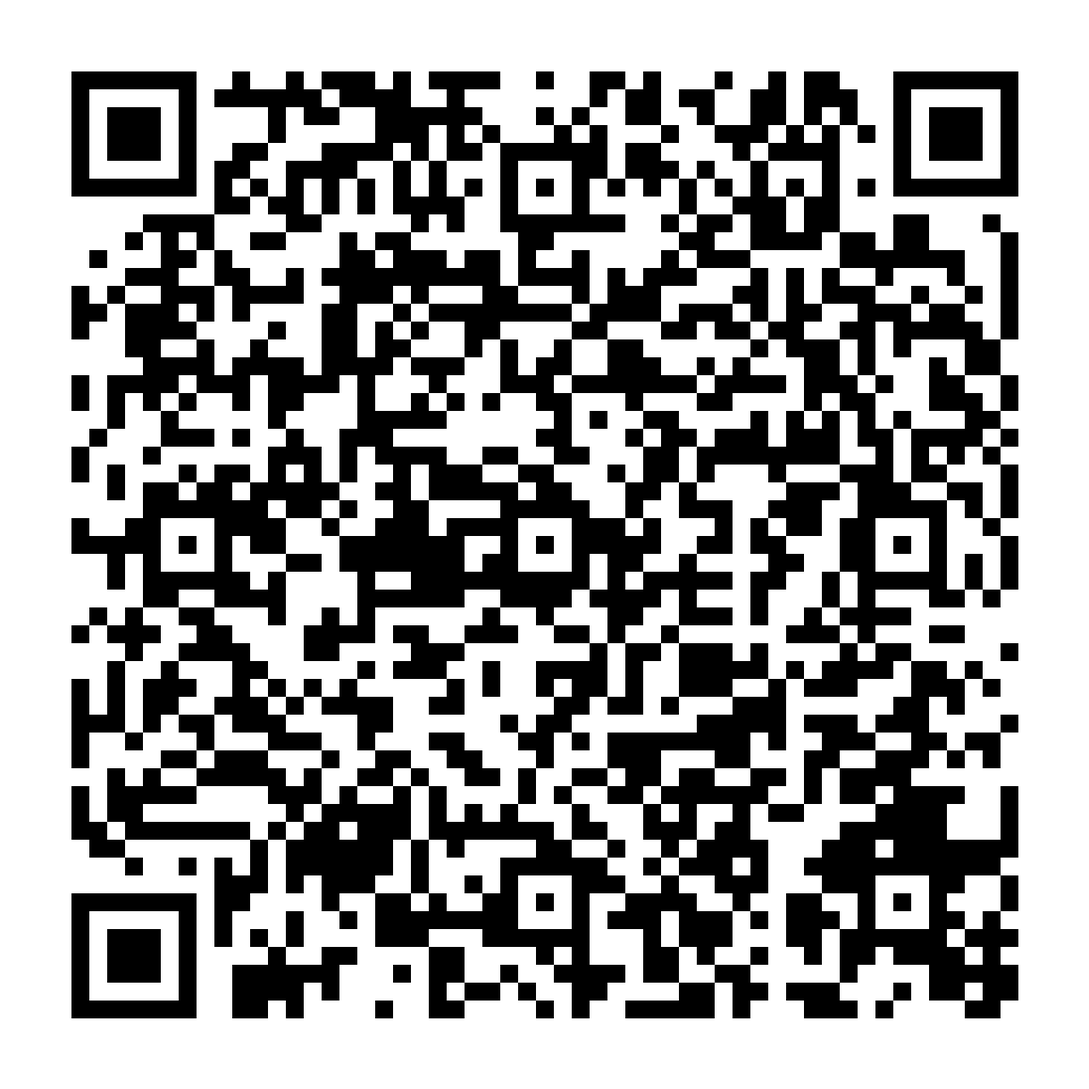
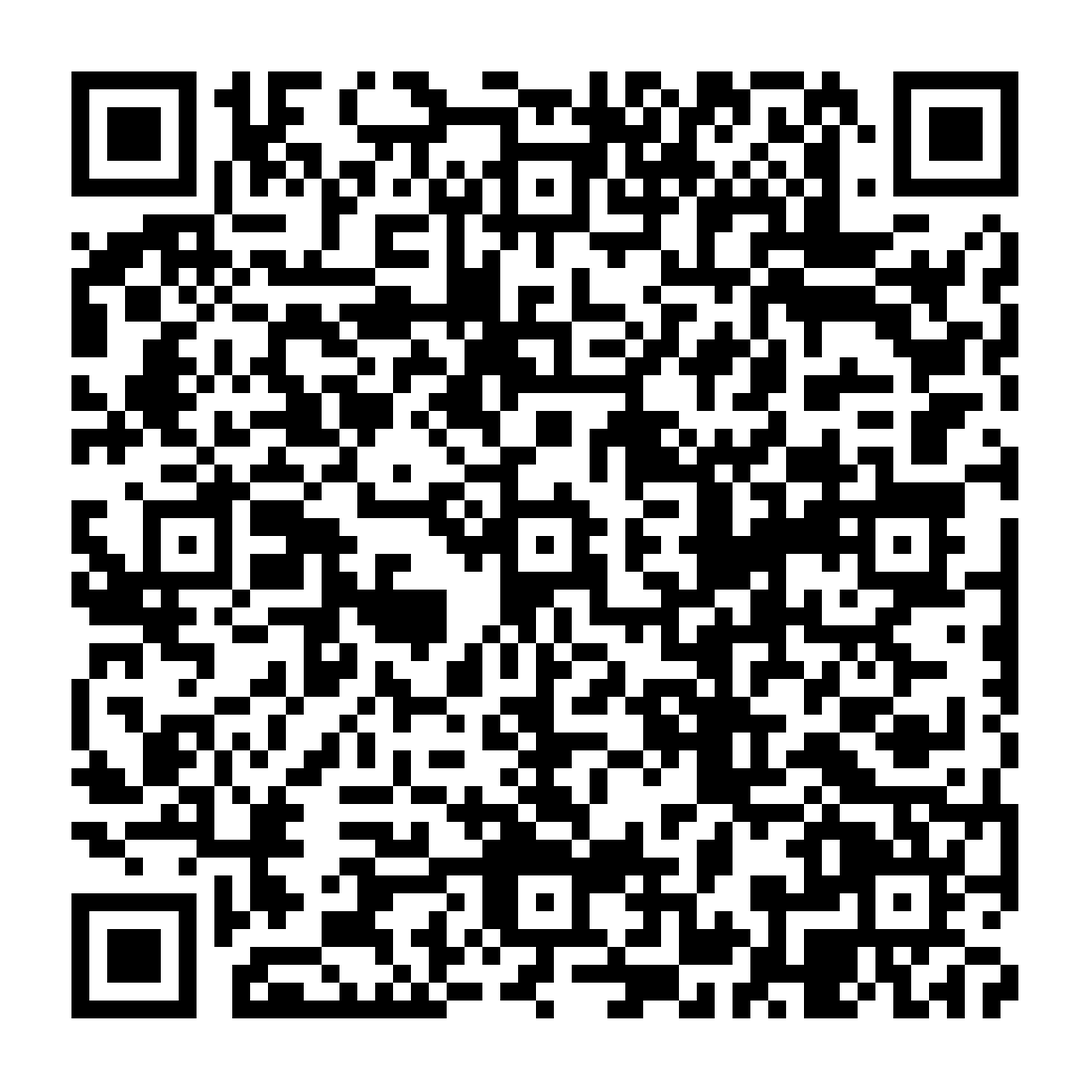
Document the free Cloudflare and GitHub Pages stack and refresh the demo QR code
Add docs/FREE_HOSTING.md with the architecture, URLs, data freshness, free
limits and degradation, the ops runbook, known gaps and the approvals needed
to shut down the paid stack. Point the README and the demo script at the
GitHub Pages URL and regenerate the KubeCon QR code for it with a one-off
tool that is not a repository dependency.

Claude-Session: https://claude.ai/code/session_01DCbh2HR69pk2FsoHooRBHN

diff --git a/docs/FREE_HOSTING.md b/docs/FREE_HOSTING.md
@@ -1,0 +1,190 @@
+# Free hosting: Conference Caddie on GitHub Pages and Cloudflare
+
+This page describes the free version of Conference Caddie, which has no expiry and needs no Elasticsearch and no Google Cloud. The people features are the main feature: profiles, people matching, talk circles, asks, waves, meets, presence, block, report, moderation, nudges and push. Talk search, browse, schedule, For you, topics and schedule import come along.
+
+## Status on 2026-11-10 (read this first)
+
+The code is finished and tested locally, but **the Worker is not deployed yet**, so the free stack is not live.
+
+- The Cloudflare API token in `CLOUDFLARE_API_TOKEN` is active and Workers AI works with it. Every call on a named Worker script (upload, secrets) answers HTTP 403 "No access to the specified resource", and so do `/workers/subdomain` and `/workers/durable_objects/namespaces`. The token therefore lacks the permission **Workers Scripts: Edit**, even though the brief said it had it. There is no wrangler login on the build machine to fall back on.
+- GitHub Pages is enabled (source: GitHub Actions) but nothing has been published, so https://kurtlehnardt.github.io/conferenceCaddie/ shows GitHub's 404 page for now. The Pages and ingest workflows are on `main` and skip with a notice while the repository variable `CADDIE_API_BASE` (and, for the ingest, the secret `CADDIE_ADMIN_TOKEN`) is unset, so they do not fail.
+- The last full local run of the ported smoke script (`scripts/smoke.mjs`) against a local Worker with real Workers AI embeddings gave 86 PASS, 0 FAIL.
+- The Cloud Run and Elasticsearch stack is untouched and still serves https://conference-caddie-265846417372.us-west1.run.app.
+
+To finish, follow [Go live](#go-live-about-10-minutes) below.
+
+## Live URLs
+
+| What | URL | State |
+|---|---|---|
+| Web app (GitHub Pages) | https://kurtlehnardt.github.io/conferenceCaddie/ | Enabled, not published yet |
+| KubeCon NA 2026 deep link (the QR code) | https://kurtlehnardt.github.io/conferenceCaddie/e/kubecon-cloudnativecon-north-america-2026 | Works once the app is published |
+| Worker API | `https://conference-caddie-api.<subdomain>.workers.dev` | Not deployed. `worker/scripts/deploy.sh` prints the real URL, and it is stored in the repository variable `CADDIE_API_BASE`. |
+| Old app (Cloud Run) | https://conference-caddie-265846417372.us-west1.run.app | Live, unchanged, the rollback |
+
+## Architecture
+
+```
+Phone browser ──HTTPS──> GitHub Pages (static Vite/Preact app, base path /conferenceCaddie/)
+      │
+      └──HTTPS + CORS, X-Caddie-Device header, no cookies──> Cloudflare Worker "conference-caddie-api"
+                                                              │
+                                   ┌──────────────────────────┼───────────────────────────┐
+                                   ▼                          ▼                           ▼
+                        ConferenceDO (one per slug)     DirectoryDO ("global")      Workers AI
+                        SQLite: talks, FTS5, vectors,   conference list, usage      bge-small-en-v1.5
+                        people, presence, asks, meets,  totals                      embeddings
+                        blocks, reports, push, rules
+                                   ▲
+                        Cron Trigger every 10 minutes (purge, expiry, pending embeddings, usage)
+GitHub Actions: weekly ingest ──admin routes──> Worker
+```
+
+- **One Worker.** `worker/src/index.js` routes the 31 API routes. All heavy work runs in Durable Objects, because the Free plan allows 10 ms of CPU per Worker request.
+- **Storage: SQLite-backed Durable Objects only.** There is one `ConferenceDO` per conference slug and one `DirectoryDO` named `global`. D1, KV, Vectorize and Pages (Cloudflare's) are not used.
+- **Keyword search:** SQLite FTS5 with the porter and unicode61 tokenizer.
+- **Semantic search:** vectors from `@cf/baai/bge-small-en-v1.5` (384 dimensions), L2-normalised, stored as float32 BLOBs, with a brute-force dot product over vectors held in Durable Object memory. The model is set by the `EMBED_MODEL` variable. No generative LLM is called anywhere.
+- **Ranking:** reciprocal rank fusion in code (rank constant 60). The old "Elasticsearch does all ranking" rule is lifted. People matching also applies a cosine floor of 0.55 to each semantic leg for bge-small, set by `PEOPLE_SEMANTIC_FLOOR`; lower it if recall feels low.
+- **Auth:** the device header `X-Caddie-Device: {profile_id}.{secret}`. Only `sha256(secret)` is stored, and the compare is constant time. There are no cookies.
+- **CORS:** the Worker allows only the origins in `ALLOWED_ORIGINS` (`https://kurtlehnardt.github.io` and the localhost dev ports) plus requests with no `Origin` header (Node, curl, the Android app).
+- **Push:** VAPID Web Push is sent from the Worker with Web Crypto (RFC 8291 and 8292). The VAPID pair is stored as Worker secrets.
+- **Privacy rules are unchanged:** reciprocity, circles gated by sharing, presence and zone visibility, symmetric block, silent decline, expiry, delete everywhere, device-secret ownership, and contact shown only to entitled viewers. The UI shows no raw IDs.
+- **Schedule import:** the Pages build (`VITE_CLIENT_EXTRACT=1`) reads PDF, DOCX and ODT files in the browser, with pdf.js and fflate loaded on demand, and sends only text to the Worker. The Cloud Run build still sends files to Elasticsearch. This reverses the 2026-11-09 choice for the free stack only.
+- **Web build:** `VITE_BASE` sets the path base and `VITE_API_BASE` sets the API address. The Cloud Run build uses neither (base `/`, same origin). The Pages build uses `/conferenceCaddie/`, copies `index.html` to `404.html` so deep links work, and adds a Content-Security-Policy tag naming the Worker.
+- **Source layout:** the backend is `worker/` (`src/`, `ingest/`, `scripts/`, `wrangler.toml`). The Cloud Run server in `server/` is unchanged, and `worker/` is excluded from its image.
+
+## How data stays fresh
+
+- **Talks and conferences:** the workflow `.github/workflows/ingest.yml` runs every Monday at 09:17 UTC and on demand. It discovers upcoming Linux Foundation events and their Sessionize schedules with `scripts/ingest.mjs --dry-run`, then pushes them to the Worker with `worker/ingest/push-ingest.mjs`. The Worker embeds only talks whose text changed, so a rerun costs almost no writes and no neurons. Nothing is committed.
+- **Cron Trigger** (`*/10 * * * *`): purges expired profiles, expires presence and meets, retries pending embeddings, and adds up the day's usage across conferences. This does not depend on GitHub.
+- GitHub disables scheduled workflows after 60 days without repository activity. Run `gh workflow run ingest.yml` to enable it again. The people purge keeps running on Cloudflare in the meantime.
+
+## Free limits and how the app degrades
+
+| Limit (Free plan) | What the app does about it |
+|---|---|
+| 100,000 Worker requests and 100,000 Durable Object requests a day | Each conference object meters its own requests, rows read and rows written per UTC day, and the cron adds them up. Every response carries `X-Caddie-Pace`, and the web app stretches all its polling by that factor before the cap. Polling also slows when the tab is hidden. If the cap is hit anyway, the Worker answers `503 {error:"daily_limit"}` with CORS headers and `Retry-After` until 00:00 UTC; the app says when the people features come back, and the static app and the offline schedule keep working. |
+| 10 ms CPU per Worker request | The Worker only routes. Heavy work runs in the Durable Object, where the limit is far higher. |
+| 5,000,000 SQLite rows read a day | Keyword results are cached in memory, queries read row ids first, and near the soft cap (`ROWS_READ_SOFT_CAP`, 3,500,000) search falls back to an in-memory keyword match. |
+| 100,000 SQLite rows written a day | Profile search rows are rewritten only when text changes, unchanged talks are not rewritten on ingest, and nudges stop near the soft cap (`ROWS_WRITTEN_SOFT_CAP`, 85,000). |
+| 10,000 Workers AI neurons a day | When the quota runs out every route answers with keyword matching only and sets `degraded`. Stored profile and talk vectors are kept, embeddings are made only for changed text, and the cron retries pending ones. |
+| Shared venue Wi-Fi IPs | The timer-driven "around now" check uses the larger poll limit, so about 100 people behind one address do not lock each other out. |
+
+`DAILY_REQUEST_BUDGET` (70,000) is the request count after which the pace factor starts to rise. The sizing assumed about 2,000 attendees on one conference day. A conference much larger than that needs the paid Workers plan.
+
+## Go live (about 10 minutes)
+
+1. **Fix the token.** In the Cloudflare dashboard, create an account API token with Workers Scripts: Edit and Workers AI: Read (add Workers Tail: Read only if you want CPU readings). If the account has no `workers.dev` subdomain, create it under Workers & Pages, Overview. Put the new token in `CLOUDFLARE_API_TOKEN`.
+2. From the repository root, in order (each step prints names and counts only):
+
+   ```sh
+   bash worker/scripts/deploy.sh                          # prints the subdomain and the Worker URL
+   node worker/scripts/setup-secrets.mjs --only-missing   # ADMIN_TOKEN, REF_SALT, VAPID pair
+   export CADDIE_API_BASE=https://conference-caddie-api.<subdomain>.workers.dev
+   export ADMIN_TOKEN_FILE=~/.config/conference-caddie/admin-token
+   node worker/ingest/migrate-from-backup.mjs --backup data/exports/backup-2026-11-10T08-25-32 --api "$CADDIE_API_BASE"
+   gh variable set CADDIE_API_BASE --body "$CADDIE_API_BASE"
+   gh workflow run pages.yml
+   gh workflow run ingest.yml -f events=kubecon-cloudnativecon-north-america-2026
+   BASE_URL=https://kurtlehnardt.github.io/conferenceCaddie API_BASE="$CADDIE_API_BASE" \
+     ADMIN_TOKEN_FILE="$ADMIN_TOKEN_FILE" node scripts/smoke.mjs
+   ```
+
+3. Check that the smoke ends with no FAIL, then open the Pages URL on a phone. Expected migration counts (from the last local run): 62 conferences, 717 talks, 114 topics, 898 facets, 132 of 136 people, 0 of 26 reports, 15 of 15 moderation rules.
+
+## Operations runbook
+
+**Redeploy the Worker.** From the repository root: `bash worker/scripts/deploy.sh`. It is safe to repeat and keeps secrets and data. Durable Object migrations are declared in `worker/wrangler.toml`; add a new `[[migrations]]` tag for any new class or schema change, and never edit the `v1` tag.
+
+**Redeploy the web app.** Push to `main` (any change under `web/`) or run `gh workflow run pages.yml`. The build reads the repository variable `CADDIE_API_BASE`.
+
+**Rotate `ADMIN_TOKEN`.** `setup-secrets.mjs` has no flag for rotating only this secret, and running it without `--only-missing` would also replace the VAPID pair, which ends every push subscription. Rotate the token by hand instead, from the repository root, with the value on standard input only:
+
+```sh
+umask 077
+openssl rand -hex 32 > ~/.config/conference-caddie/admin-token.new
+(cd worker && npx wrangler secret put ADMIN_TOKEN < ~/.config/conference-caddie/admin-token.new)
+gh secret set CADDIE_ADMIN_TOKEN --repo KurtLehnardt/conferenceCaddie < ~/.config/conference-caddie/admin-token.new
+mv ~/.config/conference-caddie/admin-token.new ~/.config/conference-caddie/admin-token
+```
+
+Never print the file. The old token stops working as soon as the Worker secret is replaced. Do not rotate `REF_SALT` unless you accept that every person's `ref` changes (`setup-secrets.mjs --rotate-ref-salt`).
+
+**Add a conference.** Conferences the discovery step knows are picked up by the weekly ingest. To add one now, run `gh workflow run ingest.yml -f events=<slug>`, or from a clone run `node scripts/ingest.mjs --event <slug> --dry-run --skip-topics` followed by `node worker/ingest/push-ingest.mjs --api "$CADDIE_API_BASE" --event <slug>` (with `ADMIN_TOKEN_FILE` set). A conference with a hand-made schedule needs its `data/<slug>/conference.json` and talk file committed first. The Worker refreshes its copy of the conference list every 5 minutes.
+
+**Re-run the migration.** The migration is repeatable: `node worker/ingest/migrate-from-backup.mjs --backup <dir> --api "$CADDIE_API_BASE"`, with `--dry-run` first. Conferences, talks, topics and facets are upserted, sample profiles are copied and re-embedded, and presence, location and Bluetooth fields are never copied. Only sample profiles are copied by default; `--include-real` also copies real profiles, whose owners cannot edit them from the Pages origin, because their device secrets live on the old origin. The backup holds personal data and stays in the git-ignored `data/exports/`.
+
+**Moderation.** `node worker/scripts/moderation.mjs --event <slug> --hidden` lists what two reports have hidden. See [worker/README.md](../worker/README.md) for undo, delete and purge. The word list is compiled into the Worker, so changing `config/moderation-words.json` needs a deploy.
+
+**Logs and CPU.** The Worker writes one line per request and never a body, header value or query text. Run `wrangler tail` only through the filter described in `worker/README.md`, because raw output can show device secrets. `GET /admin/stats?event=<slug>` with the admin token returns row counts and the day's usage meter.
+
+**Before every commit,** check the staged diff for secret values without printing them (the procedure is in `worker/README.md`), and make sure nothing under `data/exports/` and no `.dev.vars` file is staged.
+
+## Known gaps
+
+- **Not deployed yet.** See the status section above. No live smoke run, CPU reading on the deployed Worker or live usage meter exists yet.
+- **Contracts v1 conformance is partial.** The Worker does not serve `GET /api/capabilities`, and its Bluetooth support is the legacy client-supplied token, not the derived `ble_key` and `token_w` scheme with co-location checks and caps. The Pages build does not publish `capabilities.json` or the talk bundles (`scripts/build-bundles.mjs`, [docs/BUNDLES.md](BUNDLES.md)), because the Pages workflow does not run the bundle step yet. Native apps that depend on the contracts need that work.
+- **Shared github.io origin.** Every project site of the account shares `https://kurtlehnardt.github.io`. Another site there could read the device secret in `localStorage`, and the origin is an allowed CORS origin. A custom domain or a dedicated GitHub account removes the risk.
+- **Four real profiles were not migrated.** The owners' device secrets live on the Cloud Run origin, so they make a new profile on Pages.
+- **English-only embeddings.** bge-small is English-only. If non-English talks matter, set `EMBED_MODEL` to `@cf/baai/bge-m3`, clear the vectors and run the admin re-embed.
+- **Ranking differs from Elasticsearch.** FTS5 BM25 and the 0.55 people floor order results a little differently from the E5 and Lucene setup, and the smoke is the only gate.
+- **The Cache API does nothing on `workers.dev`.** Public routes are cached in memory and by browser and service-worker headers only.
+- **GitHub import** can answer 429 often, because GitHub's anonymous limit is shared by Cloudflare's egress addresses. A `GITHUB_TOKEN` Worker secret would fix it.
+- **Android APK.** `.github/workflows/android-apk.yml` still sets `VITE_API_ORIGIN` to the Cloud Run address. Change it to the Worker URL and rebuild before the paid stack is shut down, or installed APKs break.
+- **The live Cloud Run service is behind `main`.** Against it the current smoke fails 7 checks (a1, p2, p3, q1, q2, q10, p11). They are existing failures of the old deployment and not caused by the free stack.
+- **Free terms are discretionary.** Cloudflare and GitHub can change their free plans.
+
+## Approvals needed (shutting down the paid stack)
+
+Nothing below has been done, and none of it should be done until you approve each step. Several steps cannot be undone. Do them only after the free stack has passed the live smoke for a full day and the Android build points at the Worker. Replace nothing in the commands except where a placeholder is shown. The project is `project-9205d6eb-366e-4844-b77` in `us-west1`.
+
+**0. Decide about the old URL first.** The old address https://conference-caddie-265846417372.us-west1.run.app dies with step 3. People who saved it, the Home Screen icon and old QR codes would break. Before deleting the service you can redeploy a tiny Cloud Run service (or a change to `server/`) that answers with a redirect to https://kurtlehnardt.github.io/conferenceCaddie/. That costs a few cents a month at most but keeps Cloud Run and billing alive. Your approval is needed to choose between a redirect and letting the old address end. A redirect cannot carry the old origin's local data (profile and device secret), so people there must make a new profile either way.
+
+1. **Point the Android build at the Worker.** Edit `VITE_API_ORIGIN` in `.github/workflows/android-apk.yml` to the Worker URL, then rebuild the APK.
+2. **Take a final Elasticsearch backup and re-run the migration** for any new people:
+
+   ```sh
+   ELASTISEARCH_API_KEY="$ELASTISEARCH_API_KEY" node scripts/export-people.mjs   # writes into the git-ignored data/exports/
+   ```
+
+3. **Delete the Cloud Run service** (irreversible):
+
+   ```sh
+   gcloud run services delete conference-caddie --region us-west1 --project project-9205d6eb-366e-4844-b77
+   ```
+
+4. **Delete the Artifact Registry images and the Cloud Build source bucket** (irreversible):
+
+   ```sh
+   gcloud artifacts repositories delete cloud-run-source-deploy --location us-west1 --project project-9205d6eb-366e-4844-b77
+   gcloud storage ls --project project-9205d6eb-366e-4844-b77        # find the Cloud Build bucket, then:
+   gcloud storage rm -r gs://<cloud-build-bucket>
+   ```
+
+5. **Delete the Secret Manager secrets** (irreversible, all versions):
+
+   ```sh
+   for s in caddie-es-readonly caddie-es-people caddie-vapid-private caddie-vapid-public caddie-github-token; do
+     gcloud secrets delete "$s" --project project-9205d6eb-366e-4844-b77
+   done
+   ```
+
+6. **Remove the runtime service account** and the extra role on the compute service account (list them first; do not change other IAM):
+
+   ```sh
+   gcloud iam service-accounts delete caddie-runtime@project-9205d6eb-366e-4844-b77.iam.gserviceaccount.com
+   gcloud projects get-iam-policy project-9205d6eb-366e-4844-b77 --format=json     # review before removing anything
+   ```
+
+7. **If Elastic is kept for a short while,** delete the two stale indices first. `caddie-people-v1` holds personal data that the purge never reaches, and `caddie-talks-v2` is superseded:
+
+   ```sh
+   curl -s -X DELETE -H "Authorization: ApiKey $ELASTISEARCH_API_KEY" "$ES_URL/caddie-people-v1"
+   curl -s -X DELETE -H "Authorization: ApiKey $ELASTISEARCH_API_KEY" "$ES_URL/caddie-talks-v2"
+   ```
+
+   Then revoke the scoped API keys and delete the native users created for them in Kibana (Stack Management, Security). You decided on 2026-11-09 to leave superseded keys alone, so this needs a fresh yes.
+8. **Delete the Elastic Cloud deployment, including the machine-learning node,** in the Elastic Cloud console (Deployments, then Delete), or let the trial lapse. Elastic deletes the data 30 days after the trial ends.
+9. **Close or downgrade the Google Cloud billing account,** or let the trial end.
+10. **Delete the local backup** `data/exports/backup-2026-11-10T08-25-32/` when you no longer need it, because it holds personal data.
+11. **Make the free stack the documented primary** in `DECISIONS.md` and the README's Cloud Run section.

diff --git a/docs/demo/SCRIPT.md b/docs/demo/SCRIPT.md
@@ -2,7 +2,7 @@
 
 The demo shows one idea: find the right talk, and the right people around it. It runs on a phone, on KubeCon + CloudNativeCon North America 2026 (9 to 12 November, Salt Lake City), with labelled sample profiles standing in for other attendees: two demo profiles, 100 dummy profiles and 30 ordinary samples.
 
-The QR code is `docs/demo/qr-kubecon.png` (1280 px, high error correction; a vector copy is `qr-kubecon.svg`). It opens `https://conference-caddie-265846417372.us-west1.run.app/e/kubecon-cloudnativecon-north-america-2026`. The slug ends in `-2026`, which differs from the path in the original brief; the real slug is the one the app serves.
+The QR code is `docs/demo/qr-kubecon.png` (1280 px, high error correction; a vector copy is `qr-kubecon.svg`). It opens `https://kurtlehnardt.github.io/conferenceCaddie/e/kubecon-cloudnativecon-north-america-2026`, the free GitHub Pages app (see [docs/FREE_HOSTING.md](../FREE_HOSTING.md)). The old Cloud Run address `https://conference-caddie-265846417372.us-west1.run.app` keeps working until the paid stack is shut down, but the QR code no longer points at it. The QR code works only once the Worker API is deployed and the Pages workflow has published the app; until then the link shows GitHub's 404 page. The slug ends in `-2026`, which differs from the path in the original brief; the real slug is the one the app serves.
 
 ## Before you start
 
@@ -36,7 +36,7 @@ Say: "Everyone at a conference wants to meet the right people. Scan this and you
 - Tap People at the bottom. The audience sees "Find people worth meeting" replaced by "Turn on visibility to see who to meet", with the short notice that says what is stored, who sees it and how to undo it. Read the notice's first sentence aloud.
 - Tap "Make me visible". The audience sees "Finding people…" and then cards.
 - Above the cards is the line "Profiles marked Sample are demo profiles, not real attendees." The first card is "Sample · Demo B", with the blue outlined "SAMPLE" badge. Point at the shaded line with the speech icon: "They can speak to eBPF, OpenTelemetry, Security, and Observability, which you want to learn about." That is the opener. Below it is a second reason, "They want to learn about Platform and GitOps, which you can speak to.", then the lines "Can speak to:" and "Wants to learn:", and under "How to reach me" the note "Sample profile, not a real person".
-- Say: "Elasticsearch matched what I want to learn against what they can speak to, and the reverse. The reason names the topic. No model wrote this sentence."
+- Say: "The app matched what I want to learn against what they can speak to, and the reverse. The reason names the topic. No model wrote this sentence."
 - Scroll once to show the other profiles below it, all of them dummy or ordinary samples, each with the "SAMPLE" badge. In the rehearsal run the next five were "Sample · Meera Kapoor", "Sample · Kofi Adeyemi", "Sample · Ethan Rowan", "Sample · Budi Tupou" and "Sample · Aarav Iyer", and the list held 20 people. A dummy profile has a "LinkedIn profile" link under "How to reach me", with the note "Sample profile for the demo". Do not tap the link: all 100 dummies point at the same address, which is the owner's own LinkedIn page.
 
 ### 3. A talk circle shows who else is interested (1:20 to 1:50)
@@ -50,7 +50,7 @@ Say: "Everyone at a conference wants to meet the right people. Scan this and you
 
 - Tap "For you" at the bottom. The audience sees "Talks picked from what you want to learn. Ended talks and talks you marked are left out." and a list of 20 talks. The shared talk is not in it, because it is already marked.
 - Point at the line "You want to learn:" on the first card, which names the learn topics it matched. In the rehearsal run the first card was "GPU Observability with eBPF: From Kernel Hooks to Kubernetes Metrics" with "You want to learn: eBPF, Observability, Kubernetes", then "You want to learn: OpenTelemetry, Observability", "You want to learn: Security, Kubernetes" and so on. Only the five learn topics count here; the speak topics are not used. Talks that match equally well can swap places between runs, so do not promise a particular first talk. This profile has no free text, so the cards show topics only; a highlighted passage appears when the profile has free text. Most cards now also show "N people want to talk about this", from the dummies' shared talks (1 to 11 in the rehearsal run); point at one.
-- Say: "Ranking is Elasticsearch hybrid search: topic matches and meaning together, fused with reciprocal rank fusion. Talks that have ended, and talks I already marked, are left out."
+- Say: "Ranking is hybrid search: keyword matches and meaning (embeddings) together, fused with reciprocal rank fusion. Talks that have ended, and talks I already marked, are left out."
 - Tap "I'm interested" on the first suggestion. The button changes to "Interested", the message "Added to Interested" appears at the bottom, and the Interested badge goes to 2.
 
 ### 5. Airplane mode shows what still works (2:20 to 2:55)
@@ -64,7 +64,7 @@ Say: "Everyone at a conference wants to meet the right people. Scan this and you
 
 ### Closing line (2:55 to 3:00)
 
-Say: "Everything you saw is in Elasticsearch, which holds the talks, the topics and the people and does all the matching and ranking with hybrid search, and we chose not to build sign-in, messaging, push notifications, location or any scheduling, because the official schedule already does that."
+Say: "Everything you saw runs on a free Cloudflare Worker with embeddings and keyword search, and we chose not to build sign-in, messaging, push notifications, location or any scheduling, because the official schedule already does that."
 
 ## The two demo profiles
 
@@ -96,7 +96,7 @@ At the owner's request, 100 invented profiles were seeded so that anyone who ope
 - Every dummy links to `https://linkedin.com/in/kurtlehnardt` (the owner's choice) and has the contact note "Sample profile for the demo". All are open to meet.
 - Names: 100 distinct names across ten regions, none of them a public figure.
 - Topics: the conference has 96 topics. Each dummy learns exactly 10 and can speak to exactly 10, never the same topic in both sets. Every topic is learned by 10 or 11 dummies and spoken to by 10 or 11, so any topic a new user picks finds a match.
-- Shared talks: each dummy shares for 10 upcoming talks that Elasticsearch ranked for its learn topics, from a different window of the top 50 per profile. Together they cover 323 distinct talks; one talk has 15 sharers at most, the median is 3.
+- Shared talks: each dummy shares for 10 upcoming talks that were ranked for its learn topics, from a different window of the top 50 per profile. Together they cover 323 distinct talks; one talk has 15 sharers at most, the median is 3.
 - They disappear with the other samples at the end of the conference. Re-run the generator and then the seed command (see "Before you start") for fresh talk picks, for example if some of the shared talks have ended; the generator needs the admin key in `ELASTISEARCH_API_KEY`.
 - Checked on 9 November against the live service: 20 throwaway visible profiles, each with 10 random topics, all got at least 3 people to meet (the list shows at most 20), and every reason named topics that really overlap; the circle counts of 10 shared talks matched the file; a profile that is not visible got no matches (403). The throwaway profiles were deleted afterwards.
 

diff --git a/README.md b/README.md
@@ -13,7 +13,7 @@ It runs as a web app (PWA) on any phone, and as an Android app (.apk) that adds 
 
 ## Install
 
-**On your phone (web app).** Open https://conference-caddie-265846417372.us-west1.run.app, or scan the QR code for KubeCon + CloudNativeCon North America 2026. To get nudges with the app closed, add it to your Home Screen (iPhone: Share, then Add to Home Screen; Android: the install prompt) and turn on "Nudge me even when the app is closed". No account is needed.
+**On your phone (web app).** Open https://kurtlehnardt.github.io/conferenceCaddie/ (the free GitHub Pages app), or scan the QR code for KubeCon + CloudNativeCon North America 2026. To get nudges with the app closed, add it to your Home Screen (iPhone: Share, then Add to Home Screen; Android: the install prompt) and turn on "Nudge me even when the app is closed". No account is needed.
 
 <img src="docs/demo/qr-kubecon.png" alt="QR code that opens Conference Caddie for KubeCon + CloudNativeCon North America 2026" width="160">
 
@@ -26,7 +26,11 @@ npm --prefix web ci
 VITE_MOCK=1 npm --prefix web run dev     # http://localhost:5173 with fixture conferences and sample people
 ```
 
-**Run your own server.** Node 22 or later, an Elasticsearch deployment, and Google Cloud Run for the hosted service:
+The older Cloud Run address, https://conference-caddie-265846417372.us-west1.run.app, stays up until the paid stack is shut down; see [docs/FREE_HOSTING.md](docs/FREE_HOSTING.md) for the plan and the status of the move.
+
+**Run it for free (no expiry).** The free stack is a static app on GitHub Pages plus one Cloudflare Worker (`worker/`) that keeps everything in SQLite-backed Durable Objects and uses Workers AI for embeddings. It needs no Elasticsearch and no Google Cloud. [docs/FREE_HOSTING.md](docs/FREE_HOSTING.md) describes the architecture, the free limits, how the app degrades and the operations runbook, and [worker/README.md](worker/README.md) has the deploy steps.
+
+**Run your own server (Cloud Run and Elasticsearch).** Node 22 or later, an Elasticsearch deployment, and Google Cloud Run for the hosted service:
 
 ```sh
 npm ci && npm --prefix web ci
